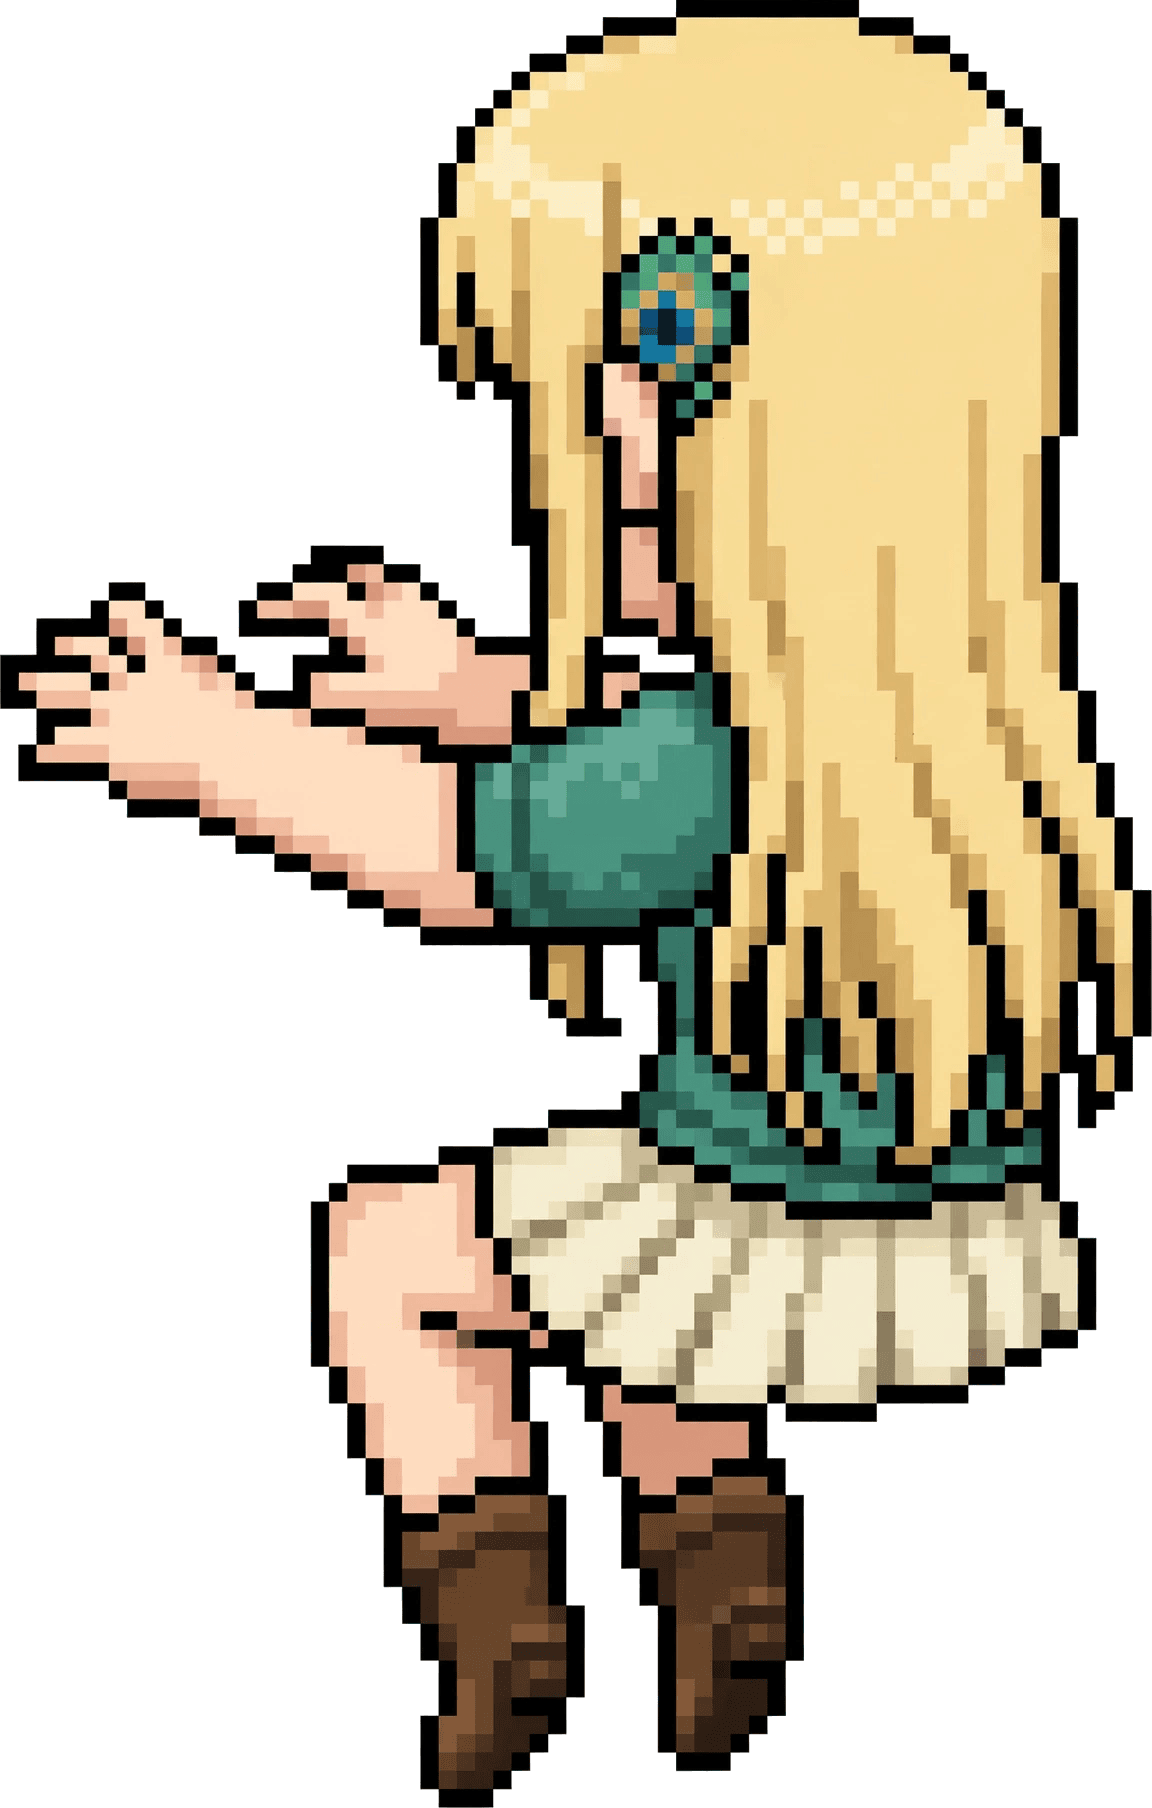
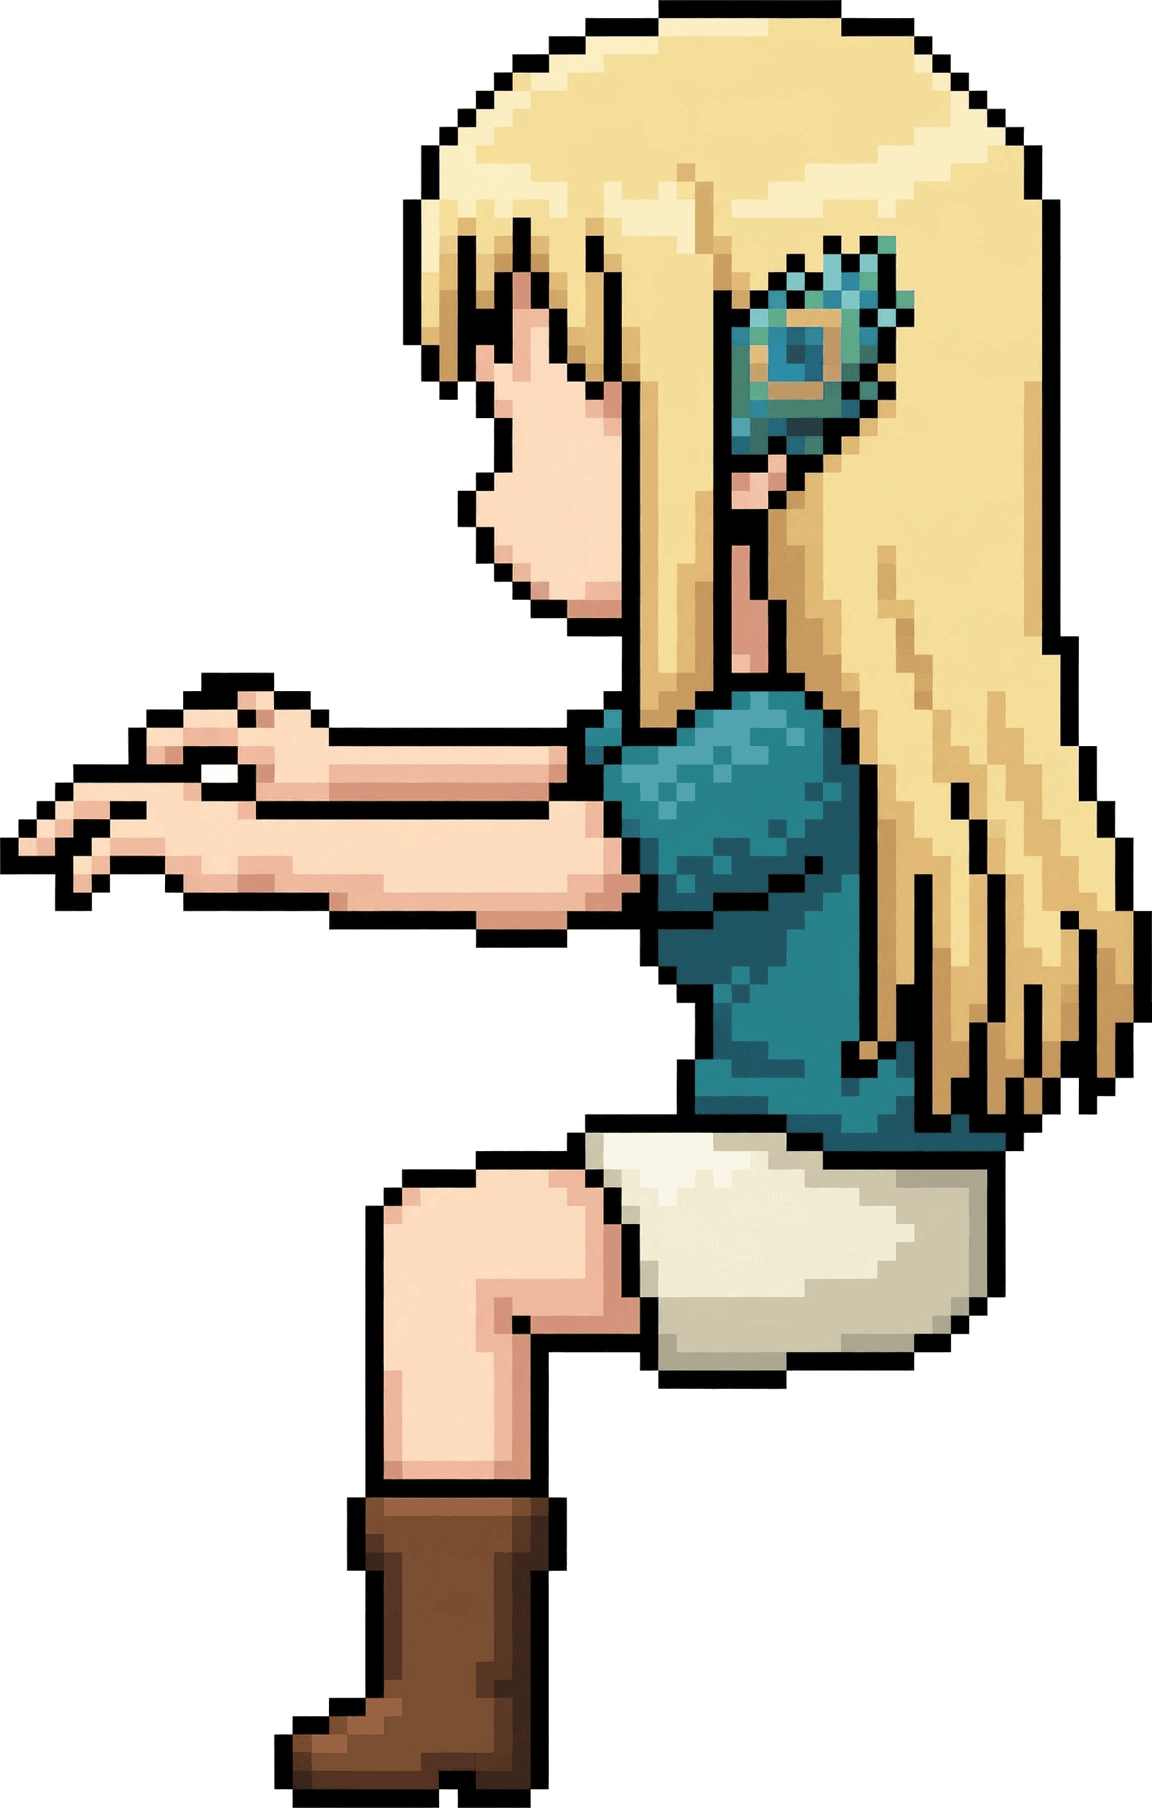
Fix Eliie sitting: proper seated sprite + seat-level anchor (.5430,.6400)

diff --git a/index.html b/index.html
@@ -354,7 +354,7 @@ function loop(t){
    ============================================================ */
 const SPOTS = {
   office:{
-    desks:[ {x:.2941,y:.7321},{x:.5430,y:.6144},{x:.4922,y:.6139},{x:.7140,y:.7390},{x:.6530,y:.7575},{x:.4555,y:.9244} ], // sitbody: full-body sitting in bg chairs
+    desks:[ {x:.2941,y:.7321},{x:.5430,y:.6400},{x:.4922,y:.6139},{x:.7140,y:.7390},{x:.6530,y:.7575},{x:.4555,y:.9244} ], // sitbody: full-body sitting in bg chairs
     extra:[ {x:.38,y:.84},{x:.63,y:.82} ],                              // idle+typing
     meet:[ {x:.50,y:.70} ],
   },

diff --git a/sw.js b/sw.js
@@ -1,4 +1,4 @@
-const CACHE_NAME = 'eliie-office-v32-sitbody4';
+const CACHE_NAME = 'eliie-office-v33-sitbody5';
 
 self.addEventListener('install', (e) => {
   self.skipWaiting();
